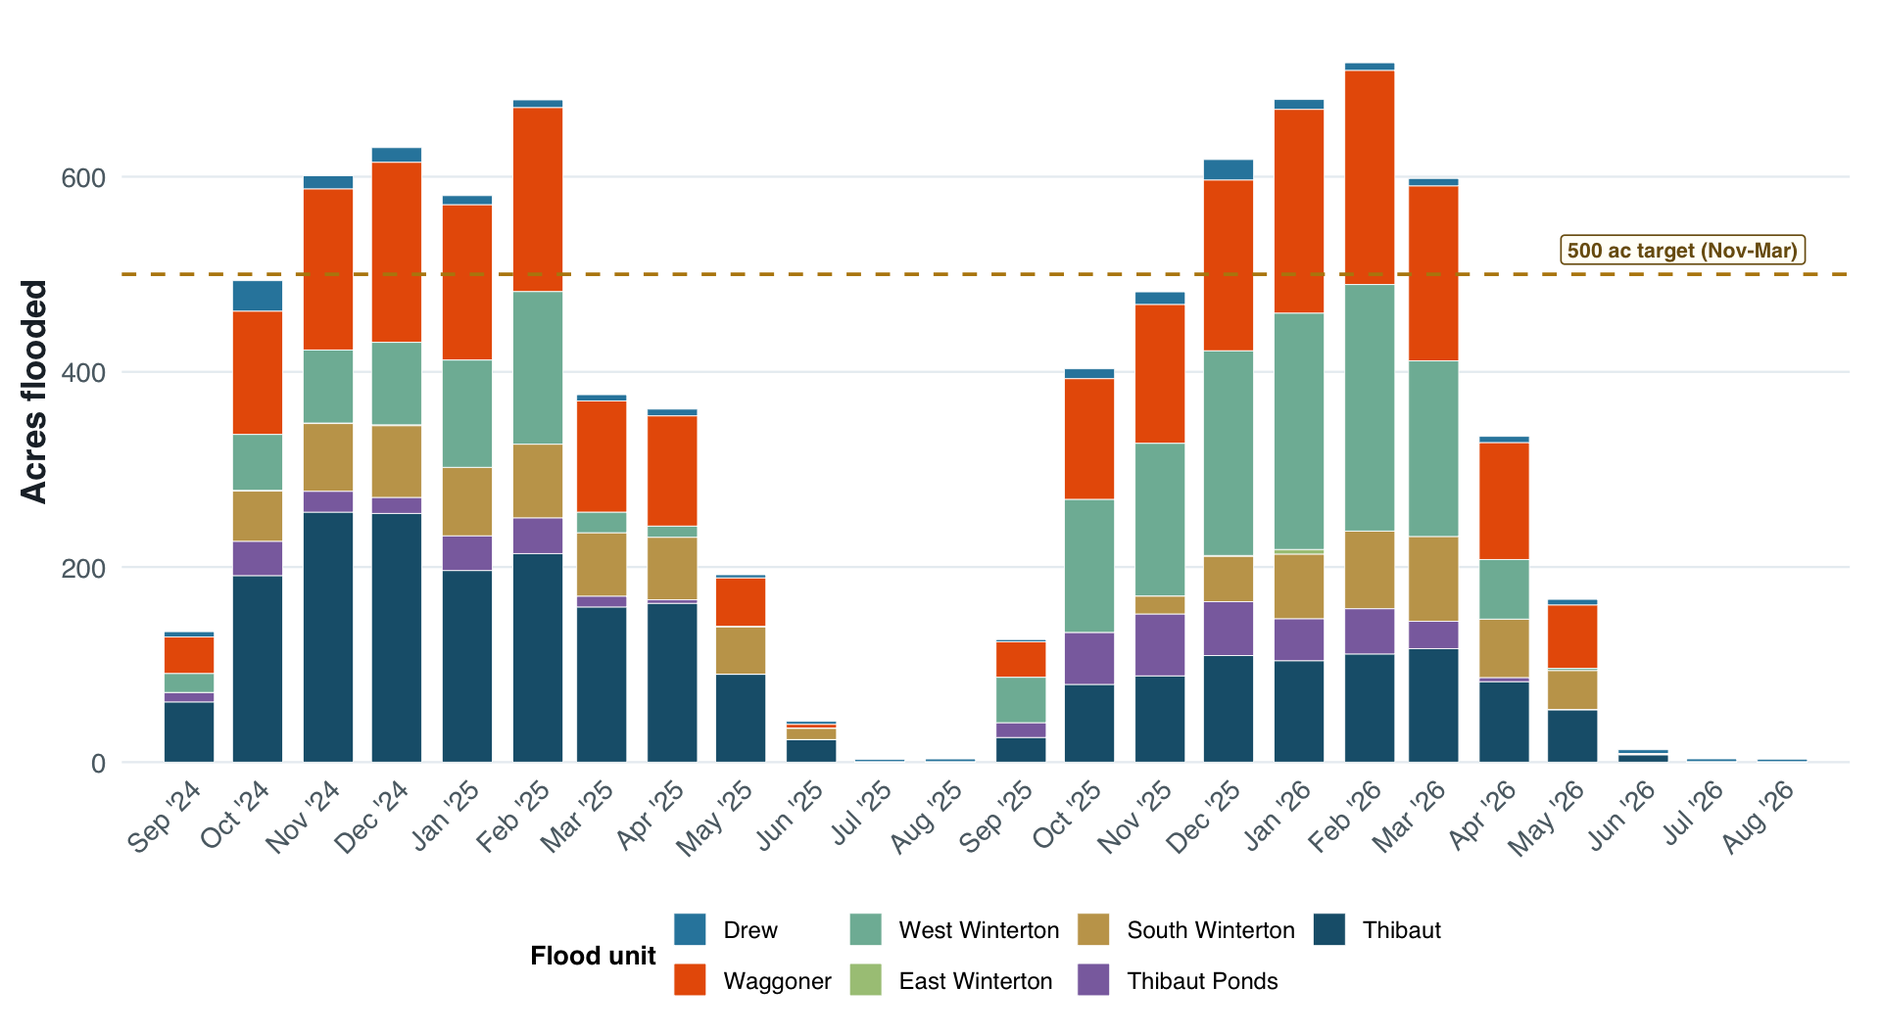
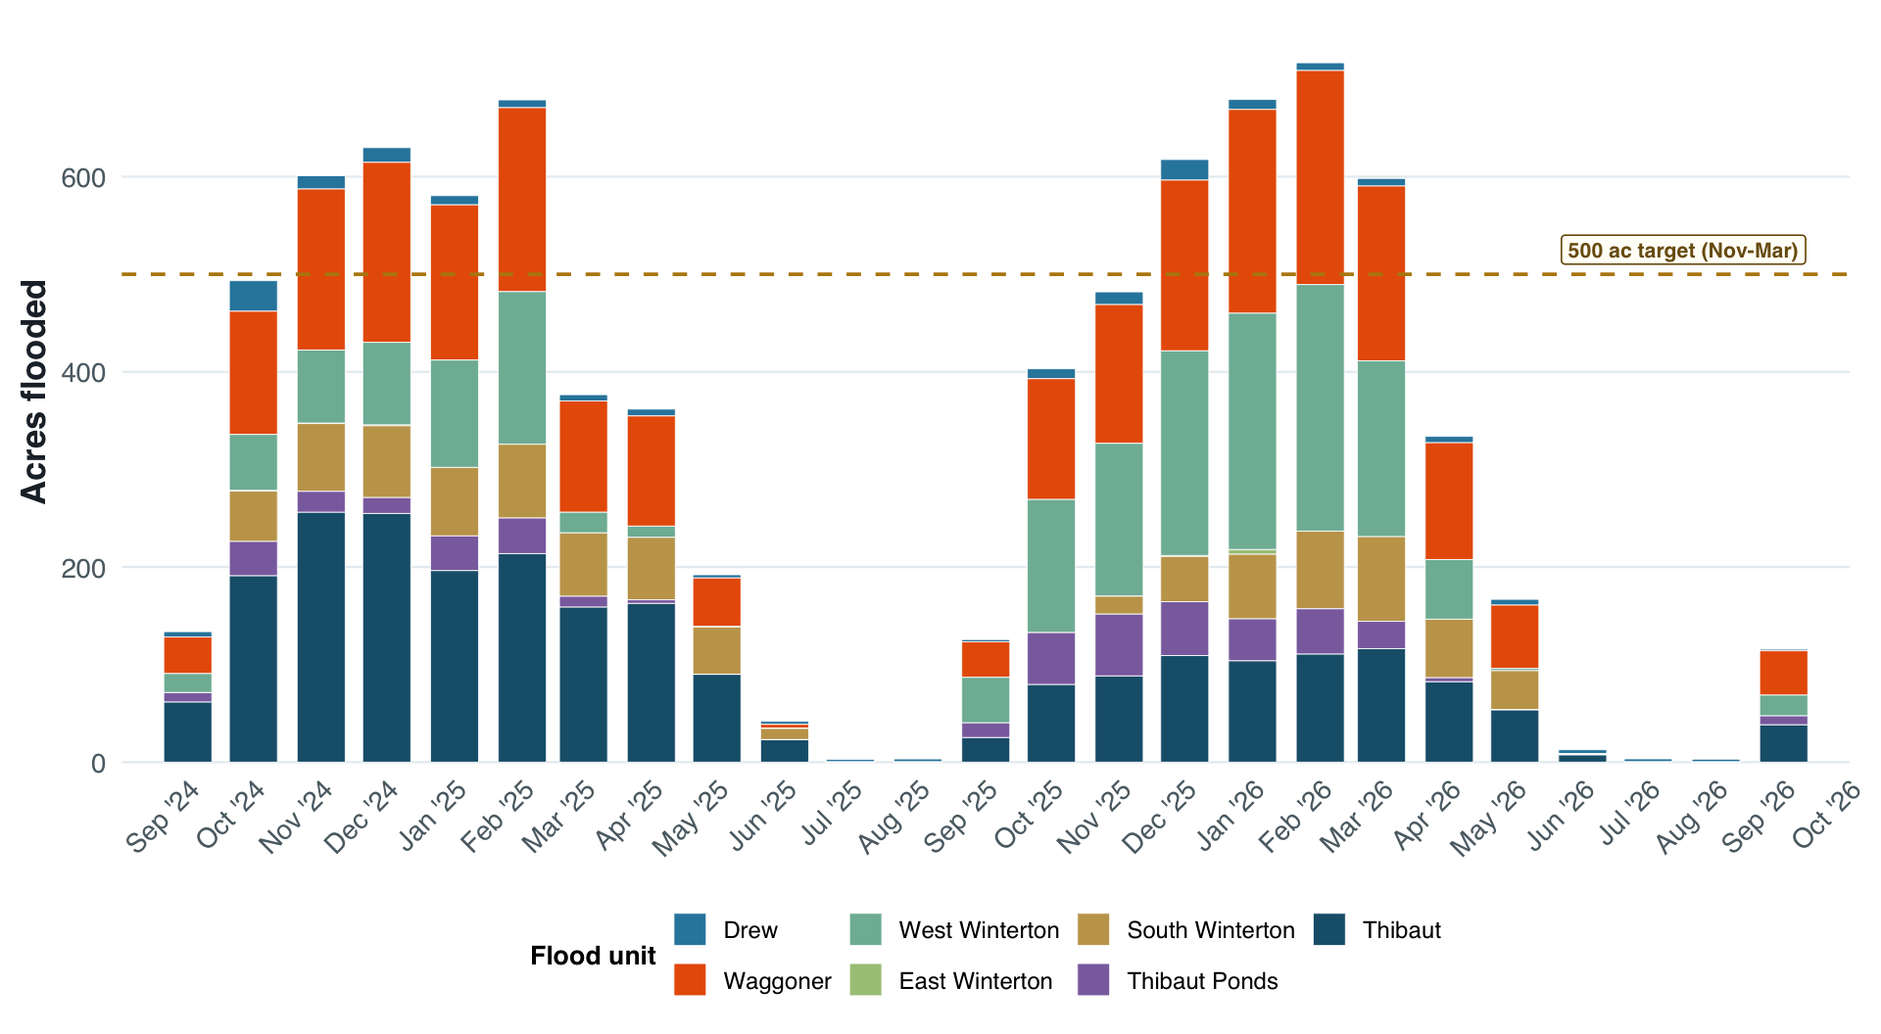
Update BWMA dashboard for Sep 2026 wet-up reports

diff --git a/docs/index.html b/docs/index.html
@@ -112,6 +112,14 @@ ul.task-list li input[type="checkbox"] {
     <a class="nav-link" href="./about.html"> 
 <span class="menu-text">About</span></a>
   </li>  
+  <li class="nav-item">
+    <a class="nav-link" href="https://inyo-gov.github.io/bwma-avian/"> 
+<span class="menu-text">BWMA avian</span></a>
+  </li>  
+  <li class="nav-item">
+    <a class="nav-link" href="https://inyo-gov.github.io/bwma-msm-veg/"> 
+<span class="menu-text">MSM veg</span></a>
+  </li>  
   <li class="nav-item compact">
     <a class="nav-link" href="https://github.com/inyo-gov/flooded-acreage"> <i class="bi bi-github" role="img">
 </i> 
@@ -171,19 +179,19 @@ ul.task-list li input[type="checkbox"] {
 <div class="stat-card stat-highlight" style="background:#f8f9fb;border:1px solid #c5cdd8;border-left:3px solid #0b3d91;border-radius:3px;padding:0.5rem 0.6rem;border-left-color:#fc3d21;background:#fff;">
 <div class="stat-label" style="font-family:ui-monospace,monospace;font-size:0.58rem;font-weight:600;letter-spacing:0.1em;text-transform:uppercase;color:#5a6578;margin-bottom:0.2rem;">Latest flooded</div>
 <span class="stat-value" style="font-size:1.15rem;font-weight:700;line-height:1.15;white-space:nowrap;">
-<span class="stat-acres-num" style="font-family:Georgia,Cambria,serif;font-variant-numeric:tabular-nums;font-size:1.25rem;color:#0b3d91;">3.1</span>
+<span class="stat-acres-num" style="font-family:Georgia,Cambria,serif;font-variant-numeric:tabular-nums;font-size:1.25rem;color:#0b3d91;">115.7</span>
 <span class="stat-acres-unit" style="font-family:ui-monospace,monospace;font-size:0.78rem;font-weight:600;color:#5a6578;margin-left:0.1rem;">ac</span>
 </span>
-<div class="stat-detail" style="margin-top:0.25rem;font-size:0.68rem;color:#5a6578;line-height:1.25;white-space:nowrap;">Aug 2026 · 15-day composite</div>
+<div class="stat-detail" style="margin-top:0.25rem;font-size:0.68rem;color:#5a6578;line-height:1.25;white-space:nowrap;">Sep 2026 · 15-day composite</div>
 </div>
 <div class="stat-card" style="background:#f8f9fb;border:1px solid #c5cdd8;border-left:3px solid #0b3d91;border-radius:3px;padding:0.5rem 0.6rem;">
 <div class="stat-label" style="font-family:ui-monospace,monospace;font-size:0.58rem;font-weight:600;letter-spacing:0.1em;text-transform:uppercase;color:#5a6578;margin-bottom:0.2rem;">Month-over-month change</div>
 <span class="stat-value" style="font-size:1.15rem;font-weight:700;line-height:1.15;white-space:nowrap;">
-<span class="stat-acres-num" style="font-family:Georgia,Cambria,serif;font-variant-numeric:tabular-nums;font-size:1.25rem;color:#0b3d91;">0.3</span>
+<span class="stat-acres-num" style="font-family:Georgia,Cambria,serif;font-variant-numeric:tabular-nums;font-size:1.25rem;color:#0b3d91;">28.4</span>
 <span class="stat-acres-unit" style="font-family:ui-monospace,monospace;font-size:0.78rem;font-weight:600;color:#5a6578;margin-left:0.1rem;">ac change</span>
 </span>
 <div class="stat-detail" style="margin-top:0.25rem;font-size:0.68rem;color:#5a6578;line-height:1.25;">
-<span class="stat-delta-down">-0.3 ac vs prior month</span>
+<span class="stat-delta-up">+28.4 ac vs prior month</span>
 </div>
 </div>
 <div class="stat-card" style="background:#f8f9fb;border:1px solid #c5cdd8;border-left:3px solid #0b3d91;border-radius:3px;padding:0.5rem 0.6rem;">
@@ -255,26 +263,26 @@ ul.task-list li input[type="checkbox"] {
 <td style="text-align: left;"></td>
 <td style="text-align: left;"><a href="flood_reports/reports/bwma_flood_report_2024-09-22_0.18.html" target="_blank" style="font-family:ui-monospace,monospace;font-size:0.75rem;font-weight:600;white-space:nowrap;text-decoration:underline;color:#0b3d91;" title="Archived report · label date Sep 22, 2024 (pre-composite workflow)">22</a></td>
 <td style="text-align: left;"><a href="flood_reports/reports/bwma_flood_report_2024-10-22_0.22.html" target="_blank" style="font-family:ui-monospace,monospace;font-size:0.75rem;font-weight:600;white-space:nowrap;text-decoration:underline;color:#0b3d91;" title="Archived report · label date Oct 22, 2024 (pre-composite workflow)">22</a></td>
-<td style="text-align: left;"><a href="flood_reports/reports/bwma_flood_report_2024-11-03_0.22.html" target="_blank" style="font-family:ui-monospace,monospace;font-size:0.75rem;font-weight:600;white-space:nowrap;text-decoration:underline;color:#0b3d91;" title="Archived report · label date Nov 03, 2024 (pre-composite workflow)">03</a></td>
+<td style="text-align: left;"><a href="flood_reports/reports/bwma_flood_report_2024-11-03_0.22.html" target="_blank" style="font-family:ui-monospace,monospace;font-size:0.75rem;font-weight:600;white-space:nowrap;text-decoration:underline;color:#0b3d91;" title="Archived report · label date Nov 03, 2024 (pre-composite workflow)">03</a> · <a href="flood_reports/reports/bwma_flood_report_2024-11-08_0.22.html" target="_blank" style="font-family:ui-monospace,monospace;font-size:0.75rem;font-weight:600;white-space:nowrap;text-decoration:underline;color:#0b3d91;" title="Archived report · label date Nov 08, 2024 (pre-composite workflow)">08</a> · <a href="flood_reports/reports/bwma_flood_report_2024-11-13_0.22.html" target="_blank" style="font-family:ui-monospace,monospace;font-size:0.75rem;font-weight:600;white-space:nowrap;text-decoration:underline;color:#0b3d91;" title="Archived report · label date Nov 13, 2024 (pre-composite workflow)">13</a> · <a href="flood_reports/reports/bwma_flood_report_2024-11-16_0.22.html" target="_blank" style="font-family:ui-monospace,monospace;font-size:0.75rem;font-weight:600;white-space:nowrap;text-decoration:underline;color:#0b3d91;" title="Archived report · label date Nov 16, 2024 (pre-composite workflow)">16</a> · <a href="flood_reports/reports/bwma_flood_report_2024-11-18_0.22.html" target="_blank" style="font-family:ui-monospace,monospace;font-size:0.75rem;font-weight:600;white-space:nowrap;text-decoration:underline;color:#0b3d91;" title="Archived report · label date Nov 18, 2024 (pre-composite workflow)">18</a> · <a href="flood_reports/reports/bwma_flood_report_2024-11-28_0.21.html" target="_blank" style="font-family:ui-monospace,monospace;font-size:0.75rem;font-weight:600;white-space:nowrap;text-decoration:underline;color:#0b3d91;" title="Archived report · label date Nov 28, 2024 (pre-composite workflow)">28</a></td>
 <td style="text-align: left;"><a href="flood_reports/reports/bwma_flood_report_2024-12-06_0.2.html" target="_blank" style="font-family:ui-monospace,monospace;font-size:0.75rem;font-weight:600;white-space:nowrap;text-decoration:underline;color:#0b3d91;" title="Archived report · label date Dec 06, 2024 (pre-composite workflow)">06</a></td>
 <td style="text-align: left;"><a href="flood_reports/reports/bwma_flood_report_2025-01-05_0.2.html" target="_blank" style="font-family:ui-monospace,monospace;font-size:0.75rem;font-weight:600;white-space:nowrap;text-decoration:underline;color:#0b3d91;" title="Archived report · label date Jan 05, 2025 (pre-composite workflow)">05</a></td>
 <td style="text-align: left;"><a href="flood_reports/reports/bwma_flood_report_2025-02-21_0.16.html" target="_blank" style="font-family:ui-monospace,monospace;font-size:0.75rem;font-weight:600;white-space:nowrap;text-decoration:underline;color:#0b3d91;" title="Archived report · label date Feb 21, 2025 (pre-composite workflow)">21</a></td>
-<td style="text-align: left;"><a href="flood_reports/reports/bwma_flood_report_2025-03-01_0.16.html" target="_blank" style="font-family:ui-monospace,monospace;font-size:0.75rem;font-weight:600;white-space:nowrap;text-decoration:underline;color:#0b3d91;" title="Archived report · label date Mar 01, 2025 (pre-composite workflow)">01</a></td>
+<td style="text-align: left;"><a href="flood_reports/reports/bwma_flood_report_2025-03-01_0.16.html" target="_blank" style="font-family:ui-monospace,monospace;font-size:0.75rem;font-weight:600;white-space:nowrap;text-decoration:underline;color:#0b3d91;" title="Archived report · label date Mar 01, 2025 (pre-composite workflow)">01</a> · <a href="flood_reports/reports/bwma_flood_report_2025-03-08_0.18.html" target="_blank" style="font-family:ui-monospace,monospace;font-size:0.75rem;font-weight:600;white-space:nowrap;text-decoration:underline;color:#0b3d91;" title="Archived report · label date Mar 08, 2025 (pre-composite workflow)">08</a> · <a href="flood_reports/reports/bwma_flood_report_2025-03-15_0.2.html" target="_blank" style="font-family:ui-monospace,monospace;font-size:0.75rem;font-weight:600;white-space:nowrap;text-decoration:underline;color:#0b3d91;" title="Archived report · label date Mar 15, 2025 (pre-composite workflow)">15</a> · <a href="flood_reports/reports/bwma_flood_report_2025-03-26_0.14.html" target="_blank" style="font-family:ui-monospace,monospace;font-size:0.75rem;font-weight:600;white-space:nowrap;text-decoration:underline;color:#0b3d91;" title="Archived report · label date Mar 26, 2025 (pre-composite workflow)">26</a></td>
 <td style="text-align: left;"><a href="flood_reports/reports/bwma_flood_report_2025-04-04_0.16.html" target="_blank" style="font-family:ui-monospace,monospace;font-size:0.75rem;font-weight:600;white-space:nowrap;text-decoration:underline;color:#0b3d91;" title="Archived report · label date Apr 04, 2025 (pre-composite workflow)">04</a></td>
-<td style="text-align: left;"><a href="flood_reports/reports/bwma_flood_report_2025-05-02_0.08.html" target="_blank" style="font-family:ui-monospace,monospace;font-size:0.75rem;font-weight:600;white-space:nowrap;text-decoration:underline;color:#0b3d91;" title="Archived report · label date May 02, 2025 (pre-composite workflow)">02</a></td>
+<td style="text-align: left;"><a href="flood_reports/reports/bwma_flood_report_2025-05-02_0.08.html" target="_blank" style="font-family:ui-monospace,monospace;font-size:0.75rem;font-weight:600;white-space:nowrap;text-decoration:underline;color:#0b3d91;" title="Archived report · label date May 02, 2025 (pre-composite workflow)">02</a> · <a href="flood_reports/reports/bwma_flood_report_2025-05-20_0.1.html" target="_blank" style="font-family:ui-monospace,monospace;font-size:0.75rem;font-weight:600;white-space:nowrap;text-decoration:underline;color:#0b3d91;" title="Archived report · label date May 20, 2025 (pre-composite workflow)">20</a></td>
 <td style="text-align: left;"><a href="flood_reports/reports/bwma_flood_report_2025-06-04_0.1.html" target="_blank" style="font-family:ui-monospace,monospace;font-size:0.75rem;font-weight:600;white-space:nowrap;text-decoration:underline;color:#0b3d91;" title="Archived report · label date Jun 04, 2025 (pre-composite workflow)">04</a></td>
 </tr>
 <tr class="even">
 <td style="text-align: left;">2025-26</td>
 <td style="text-align: left;"><a href="flood_reports/reports/bwma_flood_report_2025-07-01_0.1.html" target="_blank" style="font-family:ui-monospace,monospace;font-size:0.75rem;font-weight:600;white-space:nowrap;text-decoration:underline;color:#0b3d91;" title="Archived report · label date Jul 01, 2025 (pre-composite workflow)">01</a></td>
 <td style="text-align: left;"><a href="flood_reports/reports/bwma_flood_report_2025-08-02_0.1.html" target="_blank" style="font-family:ui-monospace,monospace;font-size:0.75rem;font-weight:600;white-space:nowrap;text-decoration:underline;color:#0b3d91;" title="Archived report · label date Aug 02, 2025 (pre-composite workflow)">02</a></td>
-<td style="text-align: left;"><a href="flood_reports/reports/bwma_flood_report_2025-09-17_0.15.html" target="_blank" style="font-family:ui-monospace,monospace;font-size:0.75rem;font-weight:600;white-space:nowrap;text-decoration:underline;color:#0b3d91;" title="Archived report · label date Sep 17, 2025 (pre-composite workflow)">17</a></td>
+<td style="text-align: left;"><a href="flood_reports/reports/bwma_flood_report_2025-09-17_0.15.html" target="_blank" style="font-family:ui-monospace,monospace;font-size:0.75rem;font-weight:600;white-space:nowrap;text-decoration:underline;color:#0b3d91;" title="Archived report · label date Sep 17, 2025 (pre-composite workflow)">17</a> · <a href="flood_reports/reports/bwma_flood_report_2025-09-29_0.15.html" target="_blank" style="font-family:ui-monospace,monospace;font-size:0.75rem;font-weight:600;white-space:nowrap;text-decoration:underline;color:#0b3d91;" title="Archived report · label date Sep 29, 2025 (pre-composite workflow)">29</a></td>
 <td style="text-align: left;"><a href="flood_reports/reports/bwma_flood_report_2025-10-17_0.2.html" target="_blank" style="font-family:ui-monospace,monospace;font-size:0.75rem;font-weight:600;white-space:nowrap;text-decoration:underline;color:#0b3d91;" title="Archived report · label date Oct 17, 2025 (pre-composite workflow)">17</a></td>
-<td style="text-align: left;"><a href="flood_reports/reports/bwma_flood_report_2025-11-01_0.2.html" target="_blank" style="font-family:ui-monospace,monospace;font-size:0.75rem;font-weight:600;white-space:nowrap;text-decoration:underline;color:#0b3d91;" title="Archived report · label date Nov 01, 2025 (pre-composite workflow)">01</a></td>
-<td style="text-align: left;"><a href="flood_reports/reports/bwma_flood_report_2025-12-01_0.16.html" target="_blank" style="font-family:ui-monospace,monospace;font-size:0.75rem;font-weight:600;white-space:nowrap;text-decoration:underline;color:#0b3d91;" title="Archived report · label date Dec 01, 2025 (pre-composite workflow)">01</a></td>
+<td style="text-align: left;"><a href="flood_reports/reports/bwma_flood_report_2025-11-01_0.2.html" target="_blank" style="font-family:ui-monospace,monospace;font-size:0.75rem;font-weight:600;white-space:nowrap;text-decoration:underline;color:#0b3d91;" title="Archived report · label date Nov 01, 2025 (pre-composite workflow)">01</a> · <a href="flood_reports/reports/bwma_flood_report_2025-11-01_0.21.html" target="_blank" style="font-family:ui-monospace,monospace;font-size:0.75rem;font-weight:600;white-space:nowrap;text-decoration:underline;color:#0b3d91;" title="Archived report · label date Nov 01, 2025 (pre-composite workflow)">01</a> · <a href="flood_reports/reports/bwma_flood_report_2025-11-01_0.22.html" target="_blank" style="font-family:ui-monospace,monospace;font-size:0.75rem;font-weight:600;white-space:nowrap;text-decoration:underline;color:#0b3d91;" title="Archived report · label date Nov 01, 2025 (pre-composite workflow)">01</a> · <a href="flood_reports/reports/bwma_flood_report_2025-11-10_0.21.html" target="_blank" style="font-family:ui-monospace,monospace;font-size:0.75rem;font-weight:600;white-space:nowrap;text-decoration:underline;color:#0b3d91;" title="Archived report · label date Nov 10, 2025 (pre-composite workflow)">10</a></td>
+<td style="text-align: left;"><a href="flood_reports/reports/bwma_flood_report_2025-12-01_0.16.html" target="_blank" style="font-family:ui-monospace,monospace;font-size:0.75rem;font-weight:600;white-space:nowrap;text-decoration:underline;color:#0b3d91;" title="Archived report · label date Dec 01, 2025 (pre-composite workflow)">01</a> · <a href="flood_reports/reports/bwma_flood_report_2025-12-08_0.18.html" target="_blank" style="font-family:ui-monospace,monospace;font-size:0.75rem;font-weight:600;white-space:nowrap;text-decoration:underline;color:#0b3d91;" title="Archived report · label date Dec 08, 2025 (pre-composite workflow)">08</a></td>
 <td style="text-align: left;"><a href="flood_reports/reports/bwma_flood_report_2026-01-02_0.14.html" target="_blank" style="font-family:ui-monospace,monospace;font-size:0.75rem;font-weight:600;white-space:nowrap;text-decoration:underline;color:#0b3d91;" title="Archived report · label date Jan 02, 2026 (pre-composite workflow)">02</a></td>
 <td style="text-align: left;"><a href="flood_reports/reports/bwma_flood_report_2026-02-01_0.14.html" target="_blank" style="font-family:ui-monospace,monospace;font-size:0.75rem;font-weight:600;white-space:nowrap;text-decoration:underline;color:#0b3d91;" title="Archived report · label date Feb 01, 2026 (pre-composite workflow)">01</a></td>
-<td style="text-align: left;"><a href="flood_reports/reports/bwma_flood_report_2026-03-01_0.14.html" target="_blank" style="font-family:ui-monospace,monospace;font-size:0.75rem;font-weight:600;white-space:nowrap;text-decoration:underline;color:#0b3d91;" title="Archived report · label date Mar 01, 2026 (pre-composite workflow)">01</a></td>
+<td style="text-align: left;"><a href="flood_reports/reports/bwma_flood_report_2026-03-01_0.14.html" target="_blank" style="font-family:ui-monospace,monospace;font-size:0.75rem;font-weight:600;white-space:nowrap;text-decoration:underline;color:#0b3d91;" title="Archived report · label date Mar 01, 2026 (pre-composite workflow)">01</a> · <a href="flood_reports/reports/bwma_flood_report_2026-03-16_0.14.html" target="_blank" style="font-family:ui-monospace,monospace;font-size:0.75rem;font-weight:600;white-space:nowrap;text-decoration:underline;color:#0b3d91;" title="Archived report · label date Mar 16, 2026 (pre-composite workflow)">16</a></td>
 <td style="text-align: left;"><a href="flood_reports/reports/bwma_flood_report_2026-04-02_0.14.html" target="_blank" style="font-family:ui-monospace,monospace;font-size:0.75rem;font-weight:600;white-space:nowrap;text-decoration:underline;color:#0b3d91;" title="Composite report · label date Apr 02, 2026">02</a></td>
 <td style="text-align: left;"><a href="flood_reports/reports/bwma_flood_report_2026-05-07_0.14.html" target="_blank" style="font-family:ui-monospace,monospace;font-size:0.75rem;font-weight:600;white-space:nowrap;text-decoration:underline;color:#0b3d91;" title="Composite report · label date May 07, 2026">07</a></td>
 <td style="text-align: left;"><a href="flood_reports/reports/bwma_flood_report_2026-06-01_0.14.html" target="_blank" style="font-family:ui-monospace,monospace;font-size:0.75rem;font-weight:600;white-space:nowrap;text-decoration:underline;color:#0b3d91;" title="Composite report · label date Jun 01, 2026">01</a></td>
@@ -283,7 +291,7 @@ ul.task-list li input[type="checkbox"] {
 <td style="text-align: left;">2026-27</td>
 <td style="text-align: left;"><a href="flood_reports/reports/bwma_flood_report_2026-07-01_0.14.html" target="_blank" style="font-family:ui-monospace,monospace;font-size:0.75rem;font-weight:600;white-space:nowrap;text-decoration:underline;color:#0b3d91;" title="Composite report · label date Jul 01, 2026">01</a></td>
 <td style="text-align: left;"><a href="flood_reports/reports/bwma_flood_report_2026-08-03_0.14.html" target="_blank" style="font-family:ui-monospace,monospace;font-size:0.75rem;font-weight:600;white-space:nowrap;text-decoration:underline;color:#0b3d91;" title="Composite report · label date Aug 03, 2026">03</a></td>
-<td style="text-align: left;"></td>
+<td style="text-align: left;"><a href="flood_reports/reports/bwma_flood_report_2026-09-22_0.14.html" target="_blank" style="font-family:ui-monospace,monospace;font-size:0.75rem;font-weight:600;white-space:nowrap;text-decoration:underline;color:#0b3d91;" title="Composite report · label date Sep 22, 2026">22</a> · <a href="flood_reports/reports/bwma_flood_report_2026-09-26_0.14.html" target="_blank" style="font-family:ui-monospace,monospace;font-size:0.75rem;font-weight:600;white-space:nowrap;text-decoration:underline;color:#0b3d91;" title="Composite report · label date Sep 26, 2026">26</a></td>
 <td style="text-align: left;"></td>
 <td style="text-align: left;"></td>
 <td style="text-align: left;"></td>
@@ -310,17 +318,17 @@ Click a day number to open the HTML report (unit table, map, downloads).
 </div>
 </div>
 </div>
-<!-- Latest monthly run: August 2026 (threshold 0.14; window 2026-08-01–16, filename date 2026-08-03). July: bwma_flood_report_2026-07-01_0.14.html -->
+<!-- Latest: September 2026 wet-up (threshold 0.14; mid-month composite label date 2026-09-26). Prior wet-up: bwma_flood_report_2026-09-22_0.14.html (~87.3 ac). August: bwma_flood_report_2026-08-03_0.14.html -->
 <div class="dashboard-section">
   <div class="report-embed-card">
     <div class="report-embed-header">
       <div>
         <h2 class="anchored">Most recent report</h2>
-        <p>August 2026 · Sentinel-2 composite · threshold 0.14 · ~3.1 ac (Drew)</p>
+        <p>September 2026 · wet-up / mid-month composite · label date 2026-09-26 · threshold 0.14 · ~115.7 ac</p>
       </div>
-      <a href="flood_reports/reports/bwma_flood_report_2026-08-03_0.14.html" target="_blank" rel="noopener">Open full report ↗</a>
+      <a href="flood_reports/reports/bwma_flood_report_2026-09-26_0.14.html" target="_blank" rel="noopener">Open full report ↗</a>
     </div>
-    <iframe src="flood_reports/reports/bwma_flood_report_2026-08-03_0.14.html" class="report-iframe" id="report-frame" title="Latest BWMA flood acreage report">
+    <iframe src="flood_reports/reports/bwma_flood_report_2026-09-26_0.14.html" class="report-iframe" id="report-frame" title="Latest BWMA flood acreage report">
     </iframe>
   </div>
 </div>

diff --git a/docs/2026-09-30_bwma-wetup-sep-20-25.md b/docs/2026-09-30_bwma-wetup-sep-20-25.md
@@ -97,4 +97,20 @@ Generate BWMA flooded-acreage wet-up checkpoints for **2026-09-20** and **2026-0
 - [x] Scene counts captured
 - [x] Cloud / empty-composite gaps called out (none hard-fail; sparse scenes noted)
 - [x] ICM written
-- [ ] Dashboard / `index.qmd` update (open — deliberate skip)
+- [x] Dashboard / `index.qmd` update (re-rendered + Pages pushed 2026-09-30)
+
+
+---
+
+## Dashboard update (2026-09-30 PT)
+
+Desk asked to pick up Sep wet-up in the Quarto dashboard after the wet-up publish.
+
+**Changes in `index.qmd`:**
+1. **Most recent report** embed → September 2026 wet-up, label date **2026-09-26**, `bwma_flood_report_2026-09-26_0.14.html`, **~115.7 ac** (wet-up / mid-month composite, not an Aug-style mid-month-only run).
+2. **Monthly report archive** (`monthly_raw`): each FY×month cell now joins **all** report-day links for that month (sorted), e.g. SEP shows **22 · 26**, instead of `slice_min` keeping only one day.
+3. Chart/KPI chunks already scan `flood_reports/csv_output` — after render, Latest KPI is Sep 2026 / **115.7 ac**; chart Sep bar uses **115.71** via `slice_max`.
+
+**Publish:** `quarto render` → commit dashboard outputs + `index.qmd` → push `origin/main` (GitHub Pages).
+
+**Live:** https://inyo-gov.github.io/flooded-acreage/
